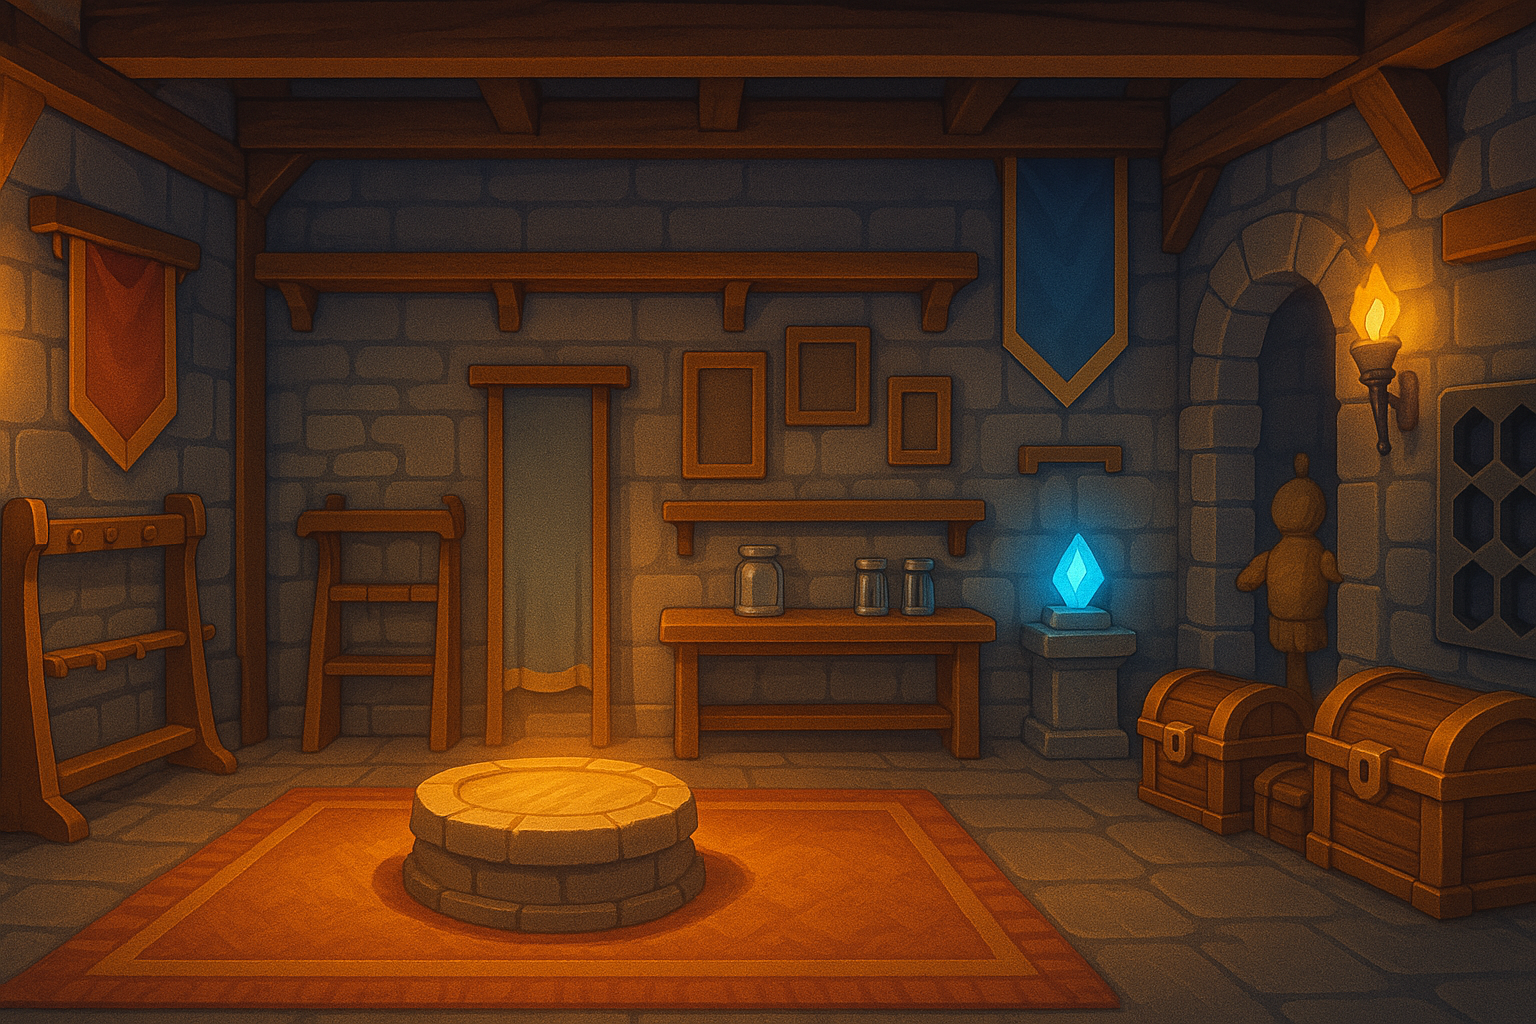
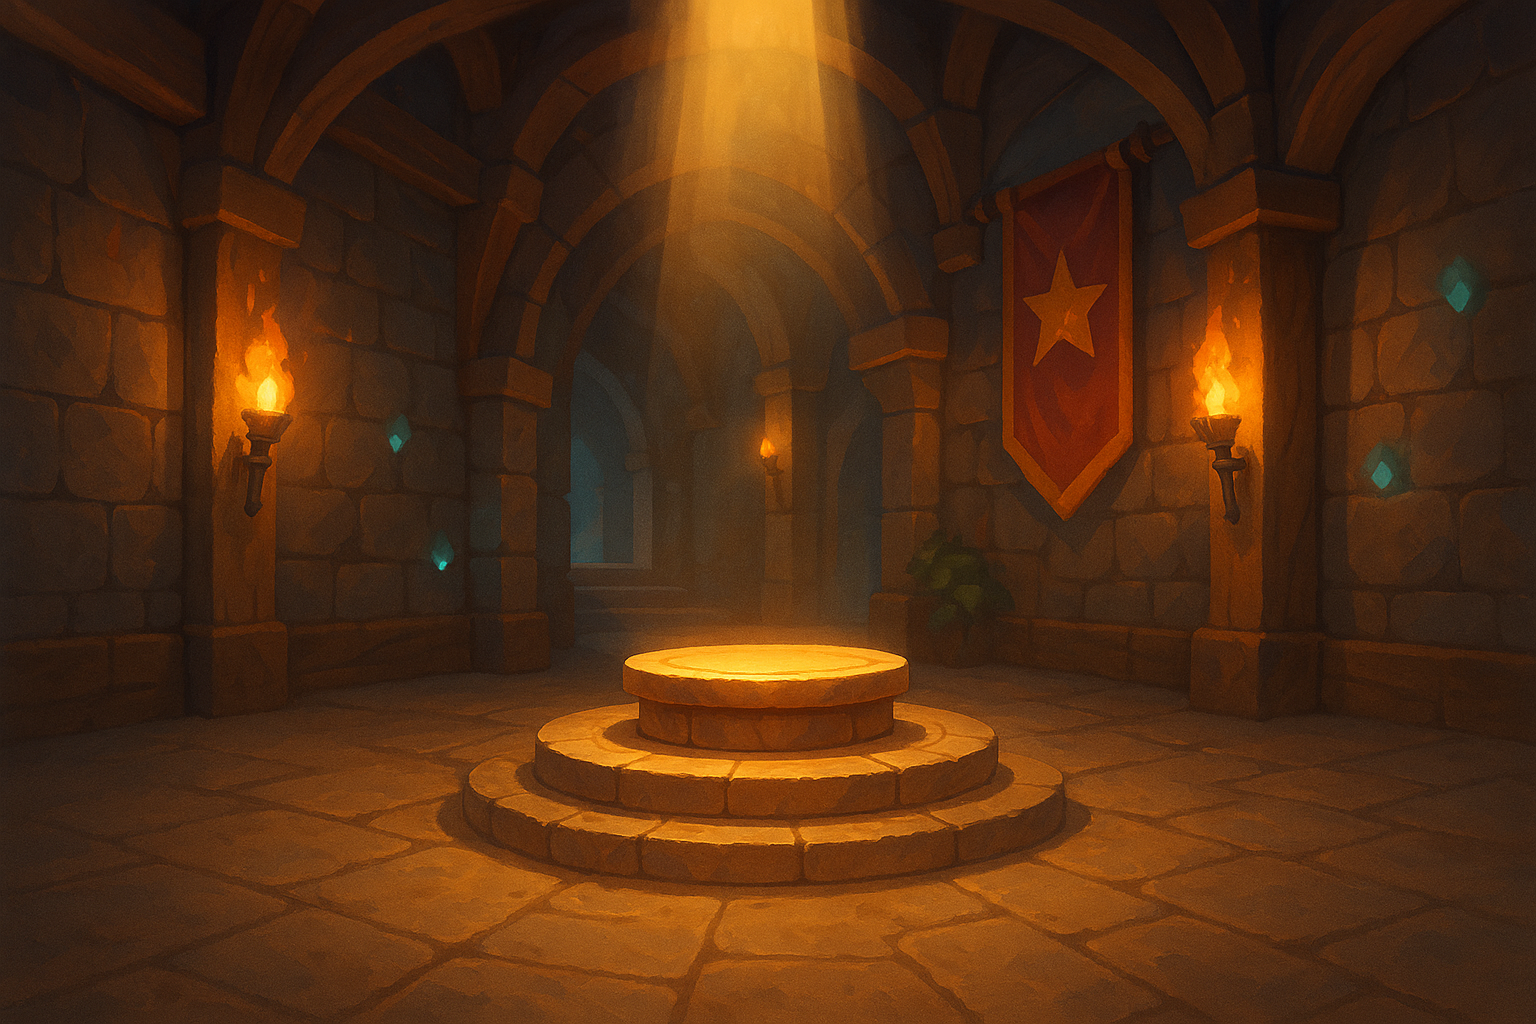
Hero Base build package: layered-hub spec + backdrops + rendered mocks (#50)
Parent-locked the redesigned Hero Base as a LAYERED HUB (painted backdrop + spotlit
pedestal + clean UI sections on top; NOT SVG-objects-on-painted-shelves, which the
research + commit fdd502d rejected). Key interaction: no mystery buttons — tap the
THING to get its action (tap GEMS -> RECHARGE card, COINS -> EARN, WEAPONS -> equip,
FRIENDS/VILLAINS -> cards, hero -> customize). Only PLAY (-> next level) + MAP (-> world
map) persist.

- art/bg-base-room.png (Act 1) + bg-base-room-a2.png (Act 2): atmospheric lair + pedestal
  backdrops (clean sides for UI), swap by body[data-act].
- BASE-BUILD-SPEC.md: the build contract — layout regions, the tap->card map, coverage vs
  the old Base, non-negotiables, render-gated slice plan.
- base-mock.html / base-mock-card.html + tools/mock-shot.mjs: standalone visual mocks
  (NOT wired into the game) — rendered reference for the hub + a sample card.

Depends on Neo's nav reconciliation (HOME->Base, lower-right MAP, PLAY->next level) landing
first; shares index.html/game.js/styles.css with Neo — coordinate, build is render-gated.

diff --git a/base-mock.html b/base-mock.html
@@ -1,0 +1,96 @@
+<!DOCTYPE html><html><head><meta charset="utf-8">
+<link href="https://fonts.googleapis.com/css2?family=Bangers&family=Baloo+2:wght@700;800&display=swap" rel="stylesheet">
+<style>
+*{margin:0;padding:0;box-sizing:border-box}
+html,body{width:1024px;height:768px;overflow:hidden;font-family:'Baloo 2',sans-serif}
+#stage{position:relative;width:1024px;height:768px;background:#1a1228}
+#bg{position:absolute;inset:0;width:100%;height:100%;object-fit:cover}
+#grade{position:absolute;inset:0;background:radial-gradient(120% 90% at 50% 35%,transparent 40%,rgba(10,6,24,.55));pointer-events:none}
+.ink{ -webkit-text-stroke:4px #1a1430; paint-order:stroke; }
+/* hero */
+#hero{position:absolute;left:50%;top:158px;transform:translateX(-50%);width:300px;filter:drop-shadow(0 10px 14px rgba(0,0,0,.45))}
+/* top status */
+#status{position:absolute;top:16px;left:50%;transform:translateX(-50%);display:flex;gap:12px;align-items:center}
+.chip{background:rgba(16,10,38,.62);border:3px solid #ffd75e;border-radius:16px;padding:7px 16px;color:#ffd75e;font-family:'Bangers';font-size:24px;letter-spacing:.04em;backdrop-filter:blur(8px);display:flex;align-items:center;gap:8px}
+.chip.rank{color:#fff;border-color:#fff}
+.dex{position:relative;width:140px;height:14px;background:rgba(0,0,0,.5);border:2px solid #1a1430;border-radius:9px;overflow:hidden}
+.dex>i{position:absolute;left:0;top:0;bottom:0;width:46%;background:linear-gradient(180deg,#9be7ff,#3a9bff)}
+/* side accomplishment panels */
+.panel{position:absolute;width:196px;background:rgba(18,11,38,.46);border:3px solid #4a3a86;border-radius:20px;padding:12px 12px 14px;backdrop-filter:blur(9px);box-shadow:0 8px 0 rgba(0,0,0,.28)}
+.panel .ph{font-family:'Bangers';font-size:21px;color:#ffd75e;letter-spacing:.04em;display:flex;justify-content:space-between;align-items:center;margin-bottom:9px}
+.panel .ph .cnt{font-size:14px;color:#cfc6f2}
+#left{left:22px;top:150px}
+#right{right:22px;top:150px}
+.gemgrid{display:grid;grid-template-columns:repeat(3,1fr);gap:9px}
+.gem{height:46px;display:flex;align-items:center;justify-content:center}
+.gem svg{width:38px;height:46px;filter:drop-shadow(0 0 6px currentColor)}
+.cage{display:grid;grid-template-columns:repeat(2,1fr);gap:10px}
+.cagebox{height:62px;border-radius:12px;background:rgba(8,5,18,.6);border:2px solid #2a2440;display:flex;align-items:center;justify-content:center;position:relative;overflow:hidden}
+.cagebox img{width:54px;height:54px;object-fit:contain}
+.cagebox::after{content:"";position:absolute;inset:0;background:repeating-linear-gradient(90deg,transparent 0 13px,rgba(180,180,210,.5) 13px 16px)}
+/* friends row below hero */
+#friends{position:absolute;left:50%;bottom:118px;transform:translateX(-50%);display:flex;gap:14px;align-items:flex-end}
+.fr{width:84px;height:84px;border-radius:50%;border:4px solid #ffd75e;background:rgba(16,10,38,.6);overflow:hidden;box-shadow:0 6px 0 rgba(0,0,0,.3)}
+.fr img{width:100%;height:120%;object-fit:cover;object-position:top}
+.fr.empty{border-color:#5a4f86;border-style:dashed;background:rgba(16,10,38,.35)}
+.frlbl{position:absolute;left:50%;bottom:96px;transform:translateX(-50%);font-family:'Bangers';color:#ffd75e;font-size:18px;letter-spacing:.05em}
+/* bottom corner buttons */
+.cta{position:absolute;bottom:20px;border:0;cursor:pointer;font-family:'Bangers';letter-spacing:.05em;color:#3a2a00;
+  background:linear-gradient(180deg,#ffe27a,#f3a52a);border-radius:20px;padding:16px 30px;font-size:34px;
+  box-shadow:0 7px 0 #b06a12, 0 9px 12px rgba(0,0,0,.4); -webkit-text-stroke:0;}
+#play{left:22px;display:flex;align-items:center;gap:10px}
+#map{right:22px;background:linear-gradient(180deg,#8fd0ff,#3a86d8);box-shadow:0 7px 0 #1d5a96,0 9px 12px rgba(0,0,0,.4);color:#06243f}
+/* secondary action row bottom-center */
+#acts{position:absolute;bottom:30px;left:50%;transform:translateX(-50%);display:flex;gap:12px}
+.act{background:rgba(16,10,38,.7);border:3px solid #ffd75e;border-radius:15px;color:#ffd75e;font-family:'Bangers';font-size:18px;letter-spacing:.03em;padding:10px 16px;box-shadow:0 5px 0 rgba(0,0,0,.3)}
+</style></head>
+<body><div id="stage">
+  <img id="bg" src="art/bg-base-room.png">
+  <div id="grade"></div>
+
+  <div id="status">
+    <div class="chip rank">SUPER HERO</div>
+    <div class="chip">★ <span style="font-family:'Baloo 2';font-weight:800;font-size:18px">GEMS</span> <div class="dex"><i></i></div></div>
+    <div class="chip">◎ 128</div>
+  </div>
+
+  <img id="hero" src="art/teddy-m1.png">
+
+  <div class="panel" id="left">
+    <div class="ph">GEMS <span class="cnt">12 / 26</span></div>
+    <div class="gemgrid">
+      <div class="gem" style="color:#ff5e6c"><svg viewBox="0 0 40 50"><polygon points="20,2 38,18 20,48 2,18" fill="#ff5e6c" stroke="#1a1430" stroke-width="3"/></svg></div>
+      <div class="gem" style="color:#ffd23a"><svg viewBox="0 0 40 50"><polygon points="20,2 38,18 20,48 2,18" fill="#ffd23a" stroke="#1a1430" stroke-width="3"/></svg></div>
+      <div class="gem" style="color:#4ad6a0"><svg viewBox="0 0 40 50"><polygon points="20,2 38,18 20,48 2,18" fill="#4ad6a0" stroke="#1a1430" stroke-width="3"/></svg></div>
+      <div class="gem" style="color:#3a9bff"><svg viewBox="0 0 40 50"><polygon points="20,2 38,18 20,48 2,18" fill="#3a9bff" stroke="#1a1430" stroke-width="3"/></svg></div>
+      <div class="gem" style="color:#b06aff"><svg viewBox="0 0 40 50"><polygon points="20,2 38,18 20,48 2,18" fill="#b06aff" stroke="#1a1430" stroke-width="3"/></svg></div>
+      <div class="gem" style="color:#ff9a3a"><svg viewBox="0 0 40 50"><polygon points="20,2 38,18 20,48 2,18" fill="#ff9a3a" stroke="#1a1430" stroke-width="3"/></svg></div>
+    </div>
+  </div>
+
+  <div class="panel" id="right">
+    <div class="ph">VILLAINS <span class="cnt">2 / 7</span></div>
+    <div class="cage">
+      <div class="cagebox"><img src="art/vex.png"></div>
+      <div class="cagebox"><img src="art/vixen.png"></div>
+    </div>
+    <div class="ph" style="margin-top:12px">WEAPONS <span class="cnt">3</span></div>
+    <div class="cage">
+      <div class="cagebox" style="font-family:'Bangers';color:#ffd75e;font-size:26px">⚒</div>
+      <div class="cagebox" style="font-family:'Bangers';color:#ffd75e;font-size:26px">⚔</div>
+    </div>
+  </div>
+
+  <div class="frlbl">MY FRIENDS</div>
+  <div id="friends">
+    <div class="fr"><img src="art/ally-tank.png"></div>
+    <div class="fr"><img src="art/ally-flip.png"></div>
+    <div class="fr"><img src="art/ally-cal.png"></div>
+    <div class="fr"><img src="art/ally-nora.png"></div>
+    <div class="fr empty"></div>
+    <div class="fr empty"></div>
+  </div>
+
+  <button class="cta" id="play">▶ PLAY</button>
+  <button class="cta" id="map">MAP</button>
+</div></body></html>

diff --git a/base-mock-card.html b/base-mock-card.html
@@ -1,0 +1,52 @@
+<!DOCTYPE html><html><head><meta charset="utf-8">
+<link href="https://fonts.googleapis.com/css2?family=Bangers&family=Baloo+2:wght@700;800&display=swap" rel="stylesheet">
+<style>
+*{margin:0;padding:0;box-sizing:border-box} html,body{width:1024px;height:768px;overflow:hidden;font-family:'Baloo 2',sans-serif}
+#stage{position:relative;width:1024px;height:768px;background:#1a1228}
+#bg{position:absolute;inset:0;width:100%;height:100%;object-fit:cover}
+#dim{position:absolute;inset:0;background:rgba(8,5,20,.62)}
+/* the opened card */
+#card{position:absolute;left:50%;top:50%;transform:translate(-50%,-50%);width:520px;background:linear-gradient(180deg,#241a44,#160e30);
+  border:4px solid #ffd75e;border-radius:26px;padding:26px 28px 30px;box-shadow:0 16px 0 rgba(0,0,0,.4),0 22px 40px rgba(0,0,0,.5)}
+#card h2{font-family:'Bangers';font-size:40px;color:#ffd75e;letter-spacing:.05em;text-align:center;-webkit-text-stroke:3px #1a1430;paint-order:stroke}
+#card .sub{text-align:center;color:#cfc6f2;font-weight:700;font-size:18px;margin:2px 0 18px}
+.gemgrid{display:grid;grid-template-columns:repeat(6,1fr);gap:12px;margin-bottom:8px}
+.gem{height:58px;display:flex;align-items:center;justify-content:center;position:relative}
+.gem svg{width:46px;height:56px;filter:drop-shadow(0 0 7px currentColor)}
+.gem.m::after{content:"✦";position:absolute;top:-4px;right:6px;color:#ffe98a;font-size:18px;text-shadow:0 0 6px #ffd75e}
+.gem.empty svg{opacity:.18;filter:none}
+.bigbtn{display:block;width:100%;margin-top:20px;border:0;cursor:pointer;font-family:'Bangers';letter-spacing:.05em;color:#06243f;
+  background:linear-gradient(180deg,#9be7ff,#3a9bff);border-radius:18px;padding:16px;font-size:32px;box-shadow:0 7px 0 #1d5a96}
+.bigbtn .s{display:block;font-family:'Baloo 2';font-weight:700;font-size:14px;color:#06243f;opacity:.8;-webkit-text-stroke:0}
+#x{position:absolute;top:-16px;right:-16px;width:48px;height:48px;border-radius:50%;background:#fff;border:4px solid #1a1430;font-family:'Bangers';font-size:26px;color:#1a1430;cursor:pointer}
+</style></head>
+<body><div id="stage">
+  <img id="bg" src="art/bg-base-room.png">
+  <div id="dim"></div>
+  <div id="card">
+    <button id="x">✕</button>
+    <h2>MY GEMS</h2>
+    <div class="sub">12 of 26 collected &nbsp;·&nbsp; 5 mastered ✦</div>
+    <div class="gemgrid">
+      <div class="gem m" style="color:#ff5e6c"><svg viewBox="0 0 46 56"><polygon points="23,2 44,20 23,54 2,20" fill="#ff5e6c" stroke="#1a1430" stroke-width="3"/></svg></div>
+      <div class="gem m" style="color:#ffd23a"><svg viewBox="0 0 46 56"><polygon points="23,2 44,20 23,54 2,20" fill="#ffd23a" stroke="#1a1430" stroke-width="3"/></svg></div>
+      <div class="gem" style="color:#4ad6a0"><svg viewBox="0 0 46 56"><polygon points="23,2 44,20 23,54 2,20" fill="#4ad6a0" stroke="#1a1430" stroke-width="3"/></svg></div>
+      <div class="gem m" style="color:#3a9bff"><svg viewBox="0 0 46 56"><polygon points="23,2 44,20 23,54 2,20" fill="#3a9bff" stroke="#1a1430" stroke-width="3"/></svg></div>
+      <div class="gem" style="color:#b06aff"><svg viewBox="0 0 46 56"><polygon points="23,2 44,20 23,54 2,20" fill="#b06aff" stroke="#1a1430" stroke-width="3"/></svg></div>
+      <div class="gem m" style="color:#ff9a3a"><svg viewBox="0 0 46 56"><polygon points="23,2 44,20 23,54 2,20" fill="#ff9a3a" stroke="#1a1430" stroke-width="3"/></svg></div>
+      <div class="gem" style="color:#46d0e0"><svg viewBox="0 0 46 56"><polygon points="23,2 44,20 23,54 2,20" fill="#46d0e0" stroke="#1a1430" stroke-width="3"/></svg></div>
+      <div class="gem m" style="color:#ff7ab0"><svg viewBox="0 0 46 56"><polygon points="23,2 44,20 23,54 2,20" fill="#ff7ab0" stroke="#1a1430" stroke-width="3"/></svg></div>
+      <div class="gem" style="color:#a0e84a"><svg viewBox="0 0 46 56"><polygon points="23,2 44,20 23,54 2,20" fill="#a0e84a" stroke="#1a1430" stroke-width="3"/></svg></div>
+      <div class="gem" style="color:#ffb03a"><svg viewBox="0 0 46 56"><polygon points="23,2 44,20 23,54 2,20" fill="#ffb03a" stroke="#1a1430" stroke-width="3"/></svg></div>
+      <div class="gem" style="color:#7a8cff"><svg viewBox="0 0 46 56"><polygon points="23,2 44,20 23,54 2,20" fill="#7a8cff" stroke="#1a1430" stroke-width="3"/></svg></div>
+      <div class="gem" style="color:#ff6c4a"><svg viewBox="0 0 46 56"><polygon points="23,2 44,20 23,54 2,20" fill="#ff6c4a" stroke="#1a1430" stroke-width="3"/></svg></div>
+      <div class="gem empty"><svg viewBox="0 0 46 56"><polygon points="23,2 44,20 23,54 2,20" fill="#888" stroke="#5a4f86" stroke-width="3"/></svg></div>
+      <div class="gem empty"><svg viewBox="0 0 46 56"><polygon points="23,2 44,20 23,54 2,20" fill="#888" stroke="#5a4f86" stroke-width="3"/></svg></div>
+      <div class="gem empty"><svg viewBox="0 0 46 56"><polygon points="23,2 44,20 23,54 2,20" fill="#888" stroke="#5a4f86" stroke-width="3"/></svg></div>
+      <div class="gem empty"><svg viewBox="0 0 46 56"><polygon points="23,2 44,20 23,54 2,20" fill="#888" stroke="#5a4f86" stroke-width="3"/></svg></div>
+      <div class="gem empty"><svg viewBox="0 0 46 56"><polygon points="23,2 44,20 23,54 2,20" fill="#888" stroke="#5a4f86" stroke-width="3"/></svg></div>
+      <div class="gem empty"><svg viewBox="0 0 46 56"><polygon points="23,2 44,20 23,54 2,20" fill="#888" stroke="#5a4f86" stroke-width="3"/></svg></div>
+    </div>
+    <button class="bigbtn">⚡ RECHARGE MY GEMS<span class="s">3 gems are ready to power up!</span></button>
+  </div>
+</div></body></html>

diff --git a/BASE-BUILD-SPEC.md b/BASE-BUILD-SPEC.md
@@ -1,0 +1,64 @@
+# BASE-BUILD-SPEC.md — Hero Base build spec (Oracle → Neo)
+
+Concrete, build-ready spec for the redesigned Hero Base (the "layered hub"). Vision/research is in
+`HERO-BASE-PLAN.md`; this is the implementation contract. **Oracle** owns the look/sections/CSS +
+render-gate; **Neo** owns paintBase/state wiring + the PLAY→next-level logic. Render-gate every slice (§20).
+
+## The model (parent-locked 2026-06-16)
+A painted lair **backdrop** + a spotlit **pedestal** (hero stands there) + **clean UI sections layered on
+top** — NOT SVG objects placed on painted shelves (that fails readability; see commit fdd502d + research).
+**No mystery buttons: tap the THING to get its action.** Only two standing buttons: PLAY + MAP.
+
+## Art (provided, build-ready)
+- `art/bg-base-room.png` (Act 1) + `art/bg-base-room-a2.png` (Act 2) — atmospheric empty lair + central
+  pedestal, uncluttered sides/foreground for UI. (Swap by `body[data-act]`, like the other bg art.)
+- Visual reference mocks (rendered): `tools/shots/base-mock.png` (hub) + `base-mock-card.png` (a tap→card).
+  Source: `base-mock.html` / `base-mock-card.html` (standalone, NOT wired into the game — reference only).
+
+## Layout (regions over the backdrop)
+| Region | Position | Content | TAP → |
+|---|---|---|---|
+| **Hero** | center, on pedestal | `heroNow()` art, idle-animated, current gear/rank/muscle; spotlight | **customize** card (cape / lens / emblem) |
+| **Status** | top-center | rank label · **gem-dex %** (mastery) · coins | coins → **EARN** card (Training launcher) |
+| **GEMS** | left panel | earned letter-gems (twinkle; gold ✦ = mastered); "N / 26" | **MY GEMS** card → **RECHARGE** button (Memory Vault) |
+| **VILLAINS + WEAPONS** | right panel | captured bosses (caged) · owned weapons | villains → quip card; weapons → **equip** card (tap a weapon to load) |
+| **MY FRIENDS** | below hero | freed allies lined up (face-framed) + faint "to-earn" sockets | friend → **flip card** (front art / back bio) |
+| **PLAY** | bottom-left, LOUD primary | the one "go read" button | → **next uncompleted level** directly (first undone mission in play order) |
+| **MAP** | bottom-right | secondary nav | → World Map (browse/replay) |
+| **Grown-ups** | small gear, low-prominence corner | parent area | → existing `parentGate` |
+
+HOME is NOT shown on the Base (he's already home). On OTHER screens: HOME (→Base, top) + MAP (↘).
+
+## Cards (the tap targets) — reuse a single card/overlay component
+- **MY GEMS** → gem grid (earned glow, ✦ mastered, empty=dim socket) + count + **RECHARGE** CTA (`startVault`).
+- **EARN** (from coins) → coin balance + **TRAIN** CTA (`showTrain`).
+- **WEAPONS** → owned weapons; tap one = equip (`S.equip.weapon`), hero re-arms live.
+- **CUSTOMIZE** (from hero) → cape color (+ future lens/emblem); cosmetic, save to `S.equip`.
+- **FRIEND** → existing `heroCard` flip; **VILLAIN** → existing `bossCage` quip; **GIFT** → chest reveal
+  choreography (the chest in the room pulses when `pendingChests()>0`).
+All cards: one level deep, big art + ≤1 headline number + icon details, CLOSE (✕) + tap-outside.
+
+## Coverage vs old Base (nothing lost)
+loadout→weapons/customize cards · league→FRIENDS row+flip · gems→GEMS panel+card · villains→VILLAINS ·
+trophies/décor→room/decor · coins→status+EARN · Training→EARN card · Recharge→GEMS card · Shop→(a shop
+entry, e.g. a "store" card or sign) · Gifts→chest · sub-screens (Train/Vault/Scroll/Warmup) unchanged
+destinations, launched from the cards.
+
+## Non-negotiables (carry over)
+Zero emoji in child UI (crafted SVG via `uiIcon`/`itemArt`/`PICONS`) · **show only earned** (empty =
+faint to-earn sockets, never "0/6" rows) · **mastery-gated** loud rewards, coins from correct answers only,
+no timers/streaks/loss · ~96px targets · Full/Calm/Lite (idle + juice gated on `body.calm`/reduced-motion) ·
+Act-2 medieval parity (`body[data-act=2]`) · save-safe (migrate any new `S.*`; never break saves) ·
+audio-first (cards narrate on open; replay where prompts exist).
+
+## Build slices (each render-gated)
+1. **Shell:** backdrop + pedestal hero + status + GEMS/VILLAINS+WEAPONS/FRIENDS section panels +
+   PLAY/MAP + gear. (Replaces the flat `basewrap` list-cards.) **Render-gate the hub composition first.**
+2. **Cards:** the single card/overlay component + the tap→card wiring (GEMS→Recharge, coins→Earn,
+   weapons→equip, hero→customize) + reuse heroCard/bossCage.
+3. **Aliveness + growth:** hero idle/spotlight, "place + sparkle" on new earns, room grows with mastery,
+   gem-dex %. 4. **Kind daily-return** (visits counter, friend greeting, overnight gift). 5. **Store +
+   pets + customization** expansion.
+
+DEPENDS ON: Neo's nav reconciliation (HOME→Base + lower-right MAP + PLAY→next-level) landing first, so
+the Base builds around the settled nav. Shares index.html/game.js/styles.css with Neo — coordinate.
